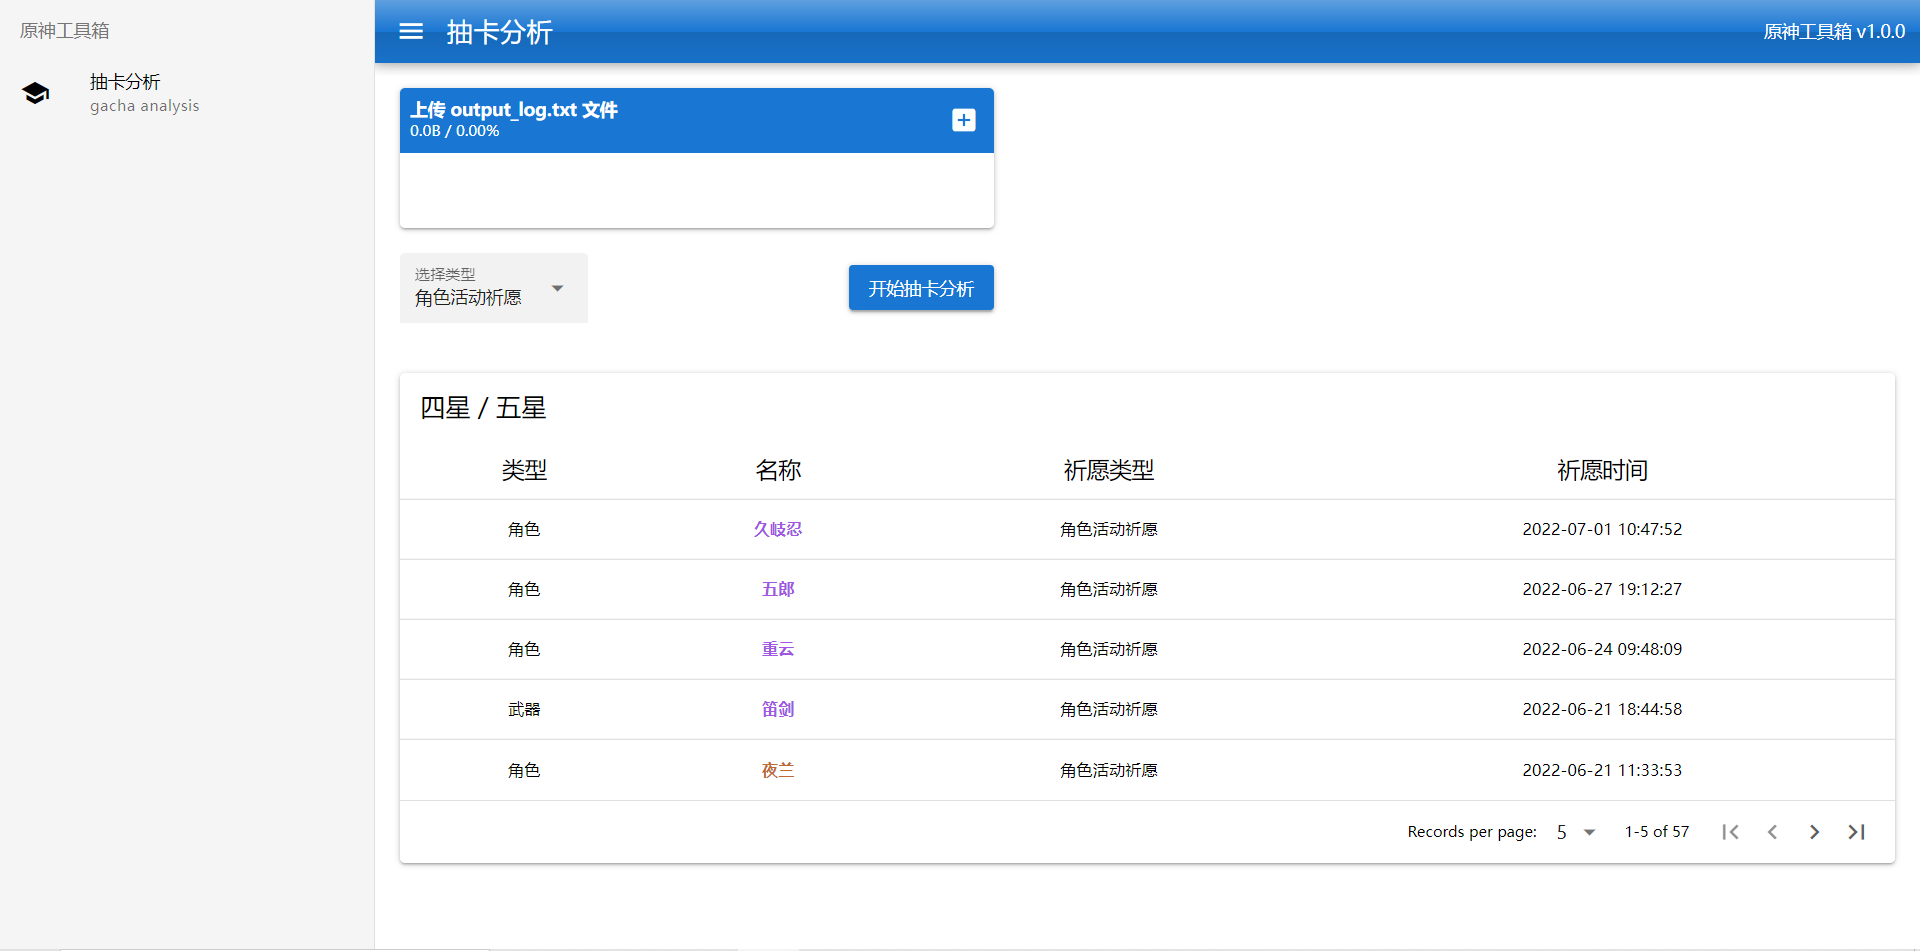
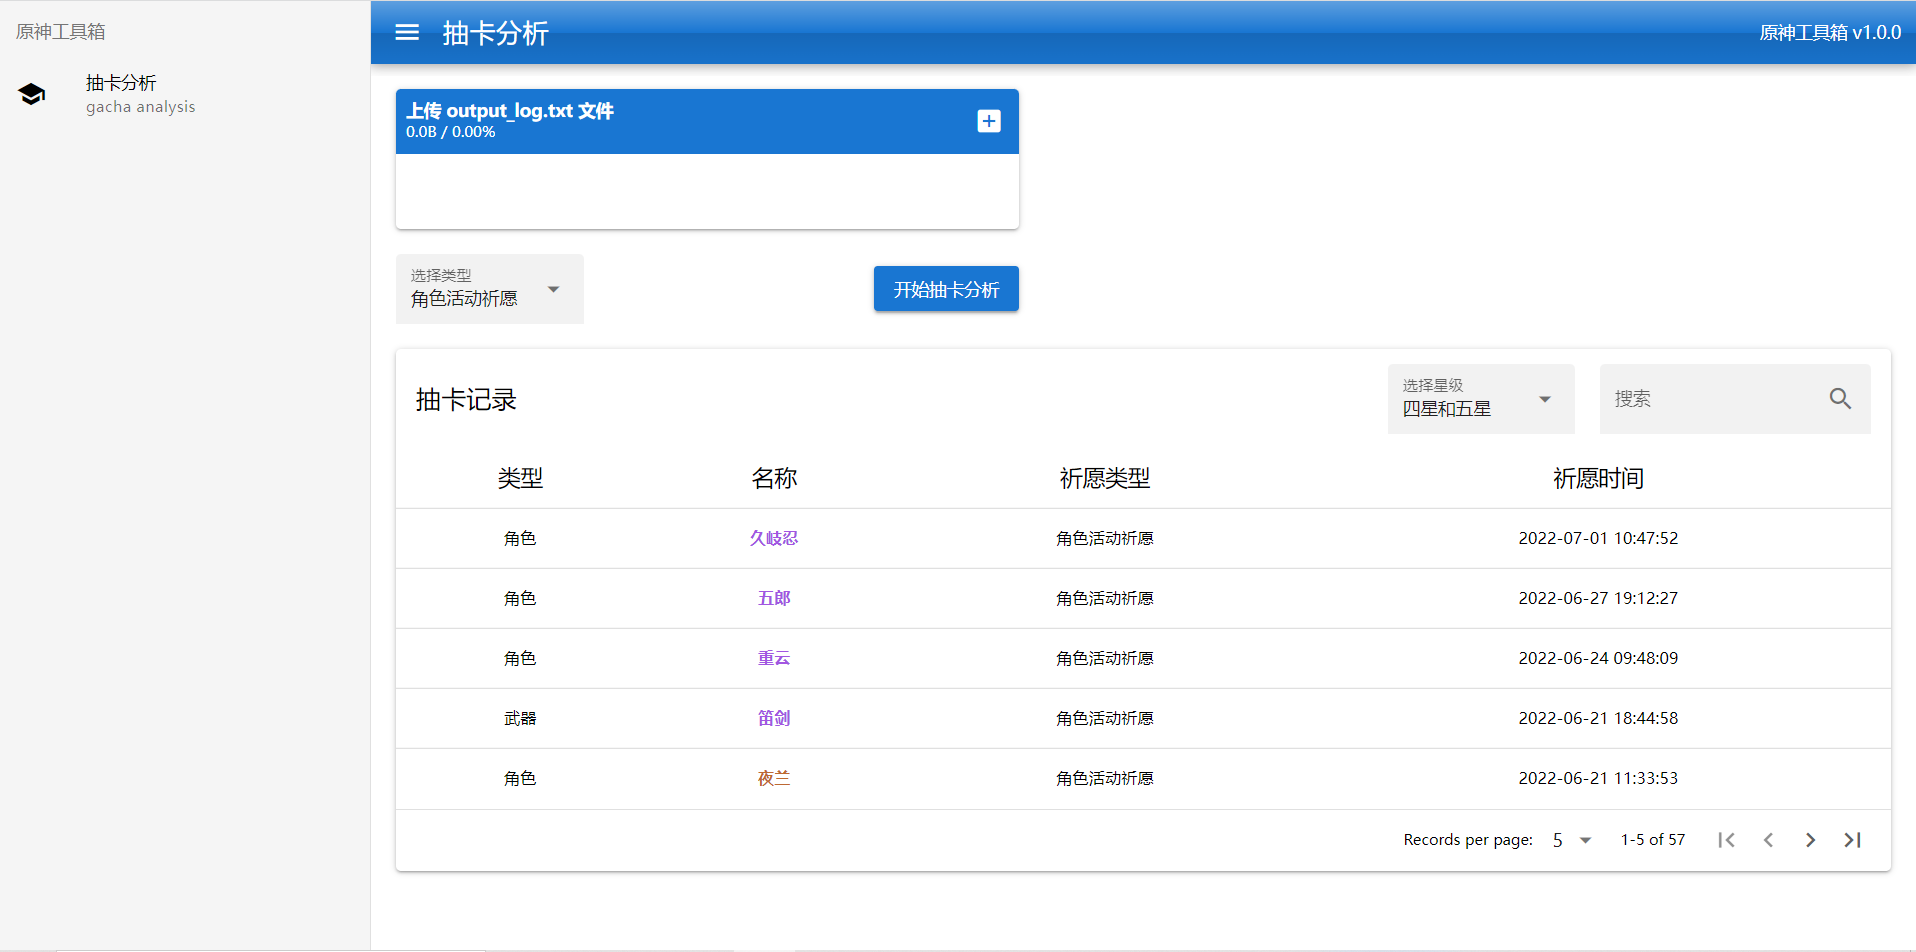
Update: select rank type

diff --git a/src/components/GachaAnalysis.vue b/src/components/GachaAnalysis.vue
@@ -1,44 +1,60 @@
 <template>
-  <div>
-    <div class="p-5 w-5/12">
-      <q-uploader
-        class="w-full"
-        hide-upload-btn
-        max-files="1"
-        :max-file-size="1024 * 1024"
-        :max-total-size="1024 * 1024"
-        accept="txt"
-        @rejected="filedToValidation"
-        @added="addedFile"
-        label="上传 output_log.txt 文件"
-      />
-      <div class="mt-5 flex justify-between items-center">
-        <q-select
-          filled
-          v-model="selectedMode"
-          :options="modeOptions"
-          style="min-width: 150px;"
-          label="选择类型"
+  <div class="p-5">
+    <div>
+      <div class="w-5/12">
+        <q-uploader
+          class="w-full"
+          hide-upload-btn
+          max-files="1"
+          :max-file-size="1024 * 1024"
+          :max-total-size="1024 * 1024"
+          accept="txt"
+          @rejected="filedToValidation"
+          @added="addedFile"
+          label="上传 output_log.txt 文件"
         />
-        <q-btn
-          @click="startUploadFile"
-          color="primary"
-          label="开始抽卡分析"
-        />
+        <div class="mt-5 flex justify-between items-center">
+          <q-select
+            filled
+            v-model="selectedMode"
+            :options="modeOptions"
+            style="min-width: 150px;"
+            label="选择类型"
+          />
+          <q-btn
+            @click="startUploadFile"
+            color="primary"
+            label="开始抽卡分析"
+          />
+        </div>
       </div>
     </div>
-    <div class="p-5">
+    <div class="mt-5">
       <q-table
         :rows="gachaTable.rows"
         :columns="gachaTable.columns"
+        title="抽卡记录"
       >
-        
-        <!-- 自定义顶部 -->
-        <template v-slot:top>
-          <div class="col-2 q-table__title">四星 / 五星</div>
+        <template v-slot:top-right>
+          <q-select
+            filled
+            v-model="selectedRankType"
+            :options="rankTypeOptions"
+            class="mr-5"
+            style="min-width: 150px;"
+            label="选择星级"
+          />
+          <q-input
+            filled
+            v-model="keyword"
+            placeholder="搜索"
+          >
+            <template v-slot:append>
+              <q-icon name="search" />
+            </template>
+          </q-input>
         </template>
         
-        <!-- 自定义表头 -->
         <template v-slot:header="props">
           <q-tr :props="props">
             <q-th
@@ -52,11 +68,10 @@
           </q-tr>
         </template>
         
-        <!-- 自定义行 -->
         <template v-slot:body="props">
           <q-tr
             :props="props"
-            style="font-size: 16px;"
+            style="font-size: 16px !important;"
           >
             <q-td key="itemType" :props="props">
               {{ props.row.itemType }}
@@ -65,7 +80,12 @@
               key="name"
               :props="props" 
               class="text-bold"
-              :class="props.row.rankType === '4' ? 'rank-type-4' : 'rank-type-5'"
+              :class="props.row.rankType === '3' 
+                ? 'rank-type-3' 
+                : props.row.rankType === '4'
+                  ? 'rank-type-4'
+                  : 'rank-type-5'
+              "
             >
               {{ props.row.name }}
             </q-td>
@@ -90,11 +110,16 @@ import { suc, fail } from '../utils'
 export default {
   name: 'GachaAnalysis',
 
+  mounted () {
+    
+  },
+
   data () {
     return {
       logFile: null, // log.txt
       gachaRecords: [], // 抽卡记录
       gachaTable: {
+        sourceRows: [],
         rows: [],
         columns: [
           { 
@@ -132,11 +157,23 @@ export default {
         '常驻祈愿': '200'
       },
       fiveStarItems: [],
-      averageNumberOfFiveStartItems: null
+      averageNumberOfFiveStartItems: null,
+      selectedRankType: '四星和五星',
+      rankTypeOptions: ['四星和五星', '四星', '五星'],
+      rankTypeMap: {
+        '四星': '4',
+        '五星': '5'
+      },
+      keyword: null
     }
   },
 
   methods: {
+    async getUsername () {
+      const data = await request.get('/getUsername')
+      console.log(data)
+    },
+
     // 选取文件后被拒绝的回调
     filedToValidation () {
       fail('上传文件格式错误')
@@ -211,18 +248,117 @@ export default {
     },
 
     // 生成表格数据
-    createGachaTableRows (gachaRecords) {
+    createGachaTableRows (selectedRankType) {
+      const { gachaRecords } = this
+
+      if (selectedRankType === '四星') {
+        for (let i = gachaRecords.length - 1; i >= 0; i--) {
+
+          const record = gachaRecords[i]
+
+          // 去除三星武器
+          if (record.rank_type === '3' || record.rank_type === '5') {
+            continue
+          }
+
+          const {
+            item_type: itemType, 
+            name, 
+            rank_type: rankType,
+            time 
+          } = record
+
+          const gachaType = this.selectedMode
+
+          const formattedRecord = {
+            itemType,
+            name,
+            gachaType,
+            rankType,
+            time
+          }
+          this.gachaTable.rows.unshift(formattedRecord)
+        }
+      }
+      else if (selectedRankType === '五星') {
+        for (let i = gachaRecords.length - 1; i >= 0; i--) {
+
+          const record = gachaRecords[i]
+
+          // 去除三星武器
+          if (record.rank_type === '3' || record.rank_type === '4') {
+            continue
+          }
+
+          const {
+            item_type: itemType, 
+            name, 
+            rank_type: rankType,
+            time 
+          } = record
+
+          const gachaType = this.selectedMode
+
+          const formattedRecord = {
+            itemType,
+            name,
+            gachaType,
+            rankType,
+            time
+          }
+          this.gachaTable.rows.unshift(formattedRecord)
+        }
+      }
+      else {
+        for (let i = gachaRecords.length - 1; i >= 0; i--) {
+
+          const record = gachaRecords[i]
+
+          // 去除三星武器
+          if (record.rank_type === '3') {
+            continue
+          }
+
+          const {
+            item_type: itemType, 
+            name, 
+            rank_type: rankType,
+            time 
+          } = record
+
+          const gachaType = this.selectedMode
+
+          const formattedRecord = {
+            itemType,
+            name,
+            gachaType,
+            rankType,
+            time
+          }
+          this.gachaTable.rows.unshift(formattedRecord)
+        }
+      }
+
+      // 拷贝一份，用于后续搜索
+      this.gachaRecords.sourceRows = this.gachaTable.rows
+    },
+
+    // 根据星级过滤记录
+    filterRecords () {
+      // ...
+    },
+    
+    // 计算五星道具平均所用抽数
+    computeAverageNumberOfFiveStartItems () {
       let counter = 0
+      const { gachaRecords } = this
 
       for (let i = gachaRecords.length - 1; i >= 0; i--) {
         counter++
 
-        const record = gachaRecords[i]
+        const record =gachaRecords[i]
 
-        // 去除三星武器
-        if (record.rank_type === '3') {
-          continue
-        }
+        const gachaType = this.selectedMode
 
         const {
           item_type: itemType, 
@@ -231,8 +367,6 @@ export default {
           time 
         } = record
 
-        const gachaType = this.selectedMode
-
         const formattedRecord = {
           itemType,
           name,
@@ -240,7 +374,6 @@ export default {
           rankType,
           time
         }
-        this.gachaTable.rows.unshift(formattedRecord)
 
         // 记录出现的五星物品和所用抽数
         if (rankType === '5') {
@@ -249,10 +382,7 @@ export default {
           counter = 0
         }
       }
-    },
-    
-    // 计算五星道具平均所用抽数
-    computeAverageNumberOfFiveStartItems () {
+
       const formattedFiveStartItem = this.fiveStarItems.slice()
       formattedFiveStartItem.length--
       const total = formattedFiveStartItem.reduce((acc, cur) => {
@@ -271,6 +401,15 @@ export default {
   },
 
   watch: {
+    keyword () {
+      // ...
+    },
+
+    selectedRankType (newVal) {
+      this.gachaTable.rows = []
+      this.createGachaTableRows(newVal)
+    },
+
     selectedMode (newVal) {
       this.gachaType = this.gachaTypeMap[newVal]
     },
@@ -281,7 +420,7 @@ export default {
       }
 
       // 生成表格数据
-      this.createGachaTableRows(newVal)
+      this.createGachaTableRows(this.selectedRankType)
 
       // 计算五星物品平均抽数
       this.computeAverageNumberOfFiveStartItems()
@@ -297,6 +436,10 @@ export default {
 </script>
 
 <style>
+.rank-type-3 {
+  color: #8E8E8E;
+}
+
 .rank-type-4 {
   color: #A256E1;
 }

diff --git a/README.md b/README.md
@@ -1,1 +1,11 @@
 ![](src\assets\display.png)
+
+## start
+
+- cd src
+
+  npm run serve
+
+- cd server
+
+  node app.js
